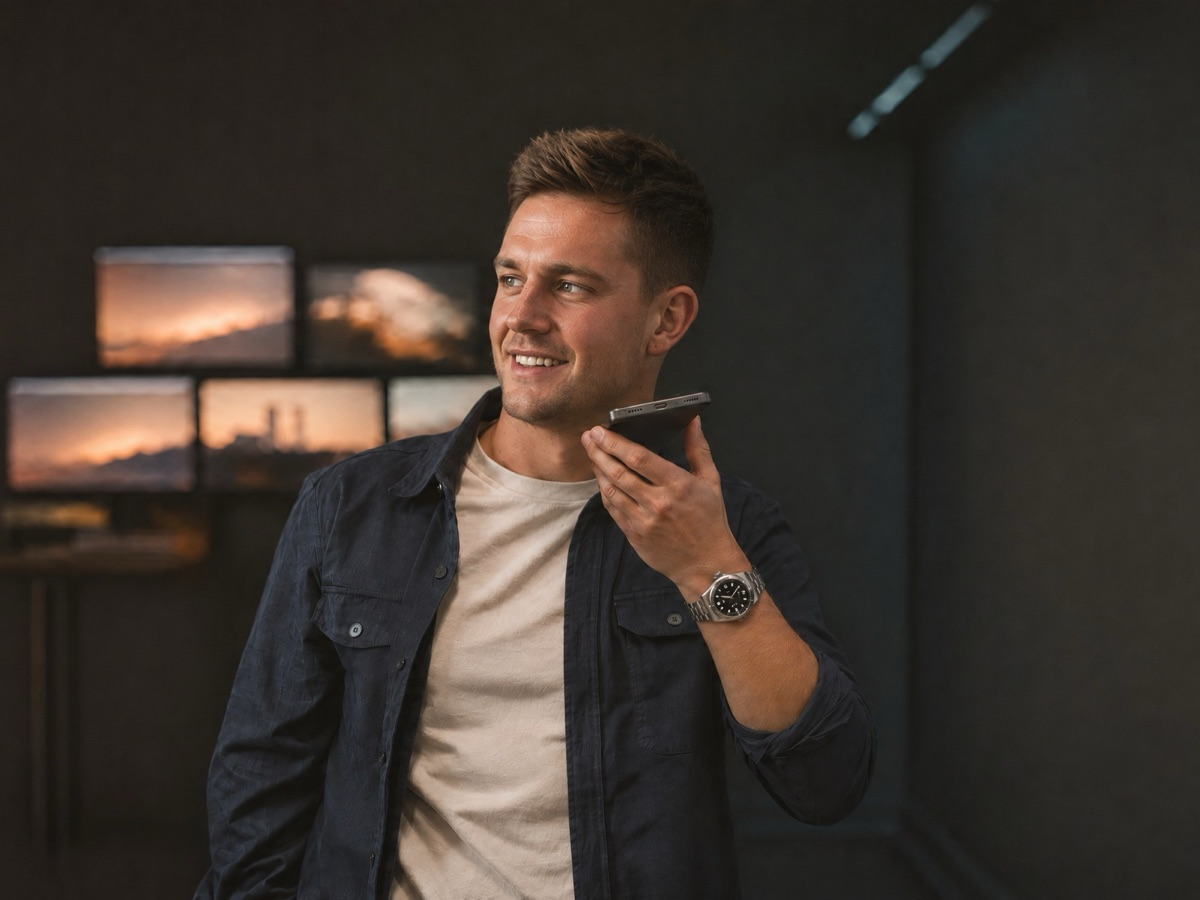
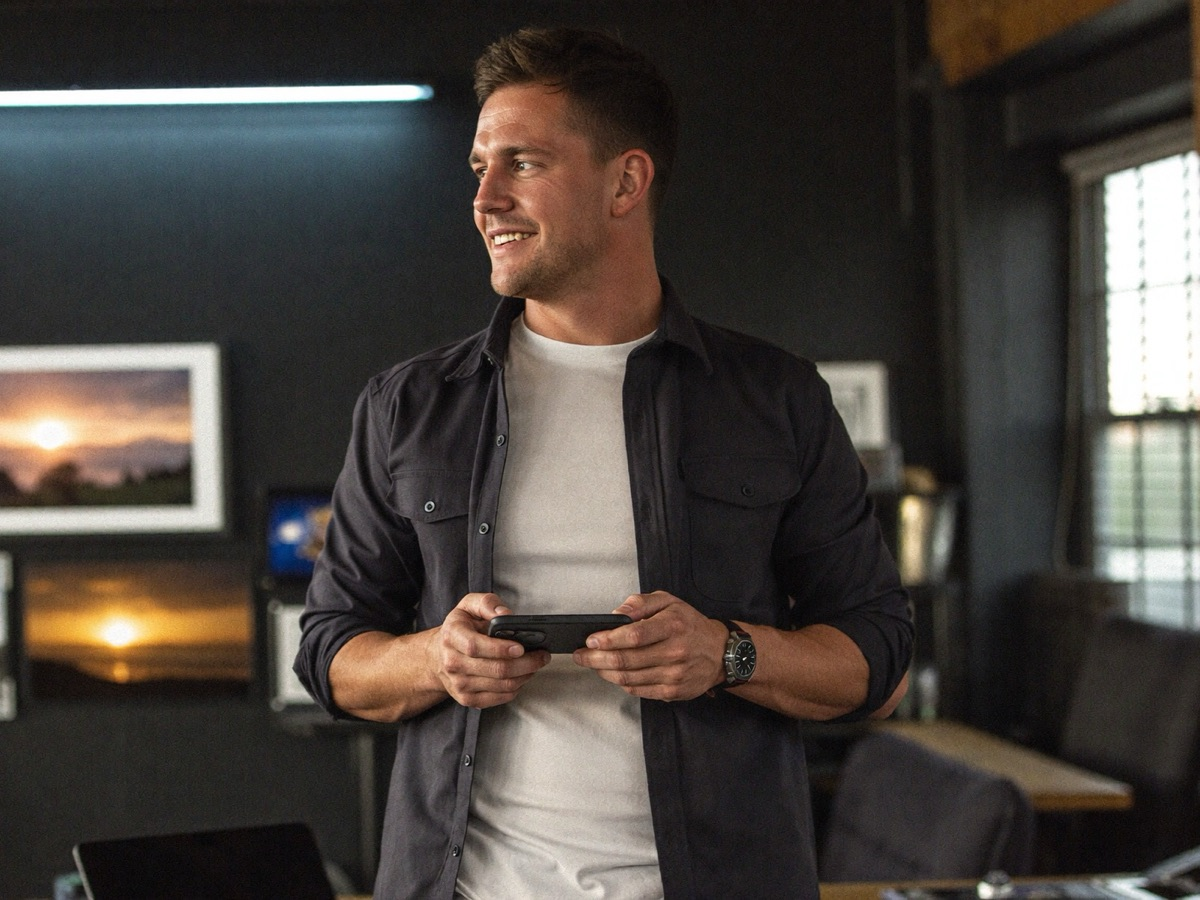
[build] journal: studio picture as header/thumbnail, loudspeaker under 'The easy part'

diff --git a/site/content/journal/ai-answers-my-website.html b/site/content/journal/ai-answers-my-website.html
@@ -36,7 +36,7 @@
 <p>Build the fence first. Then four more things.</p>
 <ul><li><b>Write the fact sheet before anything else.</b> One page. What you do, who for, what it costs to start, how to get in touch. If you cannot write it down, the assistant cannot say it.</li><li><b>Give the fact sheet an owner.</b> One named person in the business, not whoever built it. Show them how to change a line, then let them. A tool your team cannot run is a cost.</li><li><b>Read the first fifty conversations yourself.</b> You will find the questions you forgot to answer, and the sheet gets better each week.</li><li><b>Tell visitors what it is and what you keep.</b> Mine says it is an AI in its first line. If you save names, emails or conversations, say that too, in your privacy notice.</li></ul>
 <h2>The easy part</h2>
-<figure><img src="/media/journal/ai-answers-my-website/studio.jpg" alt="Benjamin Brown in a dark studio with framed sunset prints, phone in both hands, smiling and looking towards the window." width="1800" height="1013" loading="lazy" decoding="async"></figure>
+<figure><img src="/media/journal/ai-answers-my-website/loudspeaker.jpg" alt="Benjamin Brown in a dark studio, talking into a phone on loudspeaker and smiling." width="1800" height="1013" loading="lazy" decoding="async"></figure>
 <p>The model was the easy part. I could swap it for another one tomorrow and most visitors would not notice.</p>
 <p>What makes it safe to leave switched on is the fence: a short list of facts, a short list of actions, a budget, and a person who checks. Get those right and a small company can answer every visitor in seconds, at any hour, and keep its people for the conversations that need one.</p>
 <p>This is how I work with any company. The people first, then the tool, then the skills to run it. <a href="/method">The method</a> is on this site.</p>

diff --git a/src/lib/journal.ts b/src/lib/journal.ts
@@ -43,7 +43,7 @@ export const JOURNAL: JournalEntry[] = [
     excerpt: "An AI assistant now answers visitors on my own site, by text and by voice. What it does, the seven rules around it, and what it has not proved yet.",
     minutes: 6,
     cover: "/media/journal/ai-answers-my-website/cover.jpg",
-    coverAlt: "Benjamin Brown in a dark studio, talking into a phone on loudspeaker and smiling.",
+    coverAlt: "Benjamin Brown in a dark studio with framed sunset prints, phone in both hands, smiling and looking towards the window.",
     thumb: "/media/journal/ai-answers-my-website/thumb.jpg",
   },
   {
